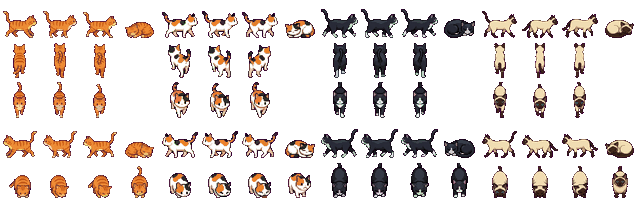
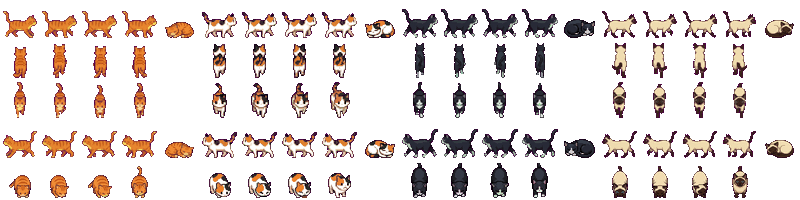
Walk the dog and the cat in four steps, one paw at a time
Each breed's walk is now four frames played in a loop, in the real
order of a walk (hind, front on one side, then hind, front on the
other), instead of three frames rocking back and forth. Up and down
walks lift their paws in turn too. The new frames were generated with
the Antigravity image model to match each breed and sized to its old
frames; sleeping and eating frames are unchanged. Each breed now takes
five columns of the sheet.

diff --git a/src/scenes/ranchPets.ts b/src/scenes/ranchPets.ts
@@ -2,22 +2,19 @@ import Phaser from 'phaser';
 import type { Pet } from '../core/ranch';
 import { PETS, type PetKind } from '../core/species';
 import { nearestNode, route, type RoamGraph } from './petRoam';
+import { SLEEP_COL, petFrame, walkCycle } from './petSheet';
 
 /**
  * The dog and the cat: they walk the farm's paths, stop to sniff, and lie down to sleep at a
  * resting spot (💤). A tap makes one jump and call; a snack makes it eat and do a trick. They have
- * no needs at all. Each sheet holds four breeds (or coats) side by side, 4 columns each; rows:
- * walk right (+ asleep), walk up, walk down, walk left (+ asleep), then eat (facing the viewer).
+ * no needs at all. Each sheet holds four breeds side by side (layout in petSheet.ts).
  */
 
 type Img = Phaser.GameObjects.Image;
 type Dir = 'R' | 'U' | 'D' | 'L';
 
-const SHEET_COLS = 16;
 const ROW: Record<Dir, number> = { R: 0, U: 1, D: 2, L: 3 };
 const EAT_ROW = 4;
-/** Lying-down frames: the fourth column of the right and left walk rows. */
-const SLEEP_COL = 3;
 /** Per sheet: frame size, drawn scale, ground row in the frame, tag height, eat frame order. */
 interface SheetLook { frame: number; scale: number; feet: number; tagY: number; eat: number[] }
 const LOOK: Record<PetKind, SheetLook> = {
@@ -91,7 +88,7 @@ export class RanchPets {
   }
 
   private frame(v: { coat: number }, row: number, col: number): number {
-    return row * SHEET_COLS + v.coat * 4 + col;
+    return petFrame(v.coat, row, col);
   }
 
   private ensureAnims(kind: PetKind, coat: number): void {
@@ -99,10 +96,10 @@ export class RanchPets {
     this.scene.textures.get(PET_TEX[kind]).setFilter(Phaser.Textures.FilterMode.NEAREST);
     const a = this.scene.anims;
     const tex = PET_TEX[kind];
-    const f = (row: number, col: number) => ({ key: tex, frame: row * SHEET_COLS + coat * 4 + col });
+    const f = (row: number, col: number) => ({ key: tex, frame: petFrame(coat, row, col) });
     for (const d of ['R', 'U', 'D', 'L'] as const) {
       const key = `${tex}-${coat}-walk-${d}`;
-      if (!a.exists(key)) a.create({ key, frames: [f(ROW[d], 0), f(ROW[d], 1), f(ROW[d], 2), f(ROW[d], 1)], frameRate: 8, repeat: -1 });
+      if (!a.exists(key)) a.create({ key, frames: walkCycle(coat, ROW[d]).map(frame => ({ key: tex, frame })), frameRate: 8, repeat: -1 });
     }
     const eat = `${tex}-${coat}-eat`;
     if (!a.exists(eat)) a.create({ key: eat, frames: LOOK[kind].eat.map(c => f(EAT_ROW, c)), frameRate: 6, repeat: 0 });

diff --git a/src/scenes/petSheet.ts b/src/scenes/petSheet.ts
@@ -1,0 +1,20 @@
+/**
+ * Layout of the dog and cat sheets (public/assets/ranch/dog.png, cat.png): four breeds side by
+ * side, BREED_COLS columns each. Rows: walk right (+ asleep), walk up, walk down, walk left
+ * (+ asleep), then eat (facing the viewer). A walk is four steps, one paw in the air at a time,
+ * in the real order (hind, front on one side, then the other), played 1-2-3-4 and looped.
+ */
+export const BREED_COLS = 5;
+export const BREEDS = 4;
+export const SHEET_COLS = BREED_COLS * BREEDS;
+export const WALK_FRAMES = 4;
+/** Lying-down frames: the last column of the right and left walk rows. */
+export const SLEEP_COL = WALK_FRAMES;
+
+export function petFrame(coat: number, row: number, col: number): number {
+  return row * SHEET_COLS + coat * BREED_COLS + col;
+}
+
+export function walkCycle(coat: number, row: number): number[] {
+  return Array.from({ length: WALK_FRAMES }, (_, c) => petFrame(coat, row, c));
+}

diff --git a/tests/scenes/petSheet.test.ts b/tests/scenes/petSheet.test.ts
@@ -1,0 +1,18 @@
+import { describe, it, expect } from 'vitest';
+import { BREED_COLS, SHEET_COLS, SLEEP_COL, petFrame, walkCycle } from '../../src/scenes/petSheet';
+
+describe('pet sheet layout', () => {
+  it('four breeds side by side, five columns each: four walk frames, then lying down', () => {
+    expect(BREED_COLS).toBe(5);
+    expect(SHEET_COLS).toBe(20);
+    expect(SLEEP_COL).toBe(4);
+    expect(petFrame(0, 0, 0)).toBe(0);
+    expect(petFrame(1, 0, 0)).toBe(5);
+    expect(petFrame(3, 4, 4)).toBe(4 * 20 + 15 + 4);
+  });
+
+  it('a walk plays all four steps in order and loops (no back-and-forth)', () => {
+    expect(walkCycle(1, 0)).toEqual([5, 6, 7, 8]);
+    expect(walkCycle(2, 3)).toEqual([70, 71, 72, 73]);
+  });
+});
